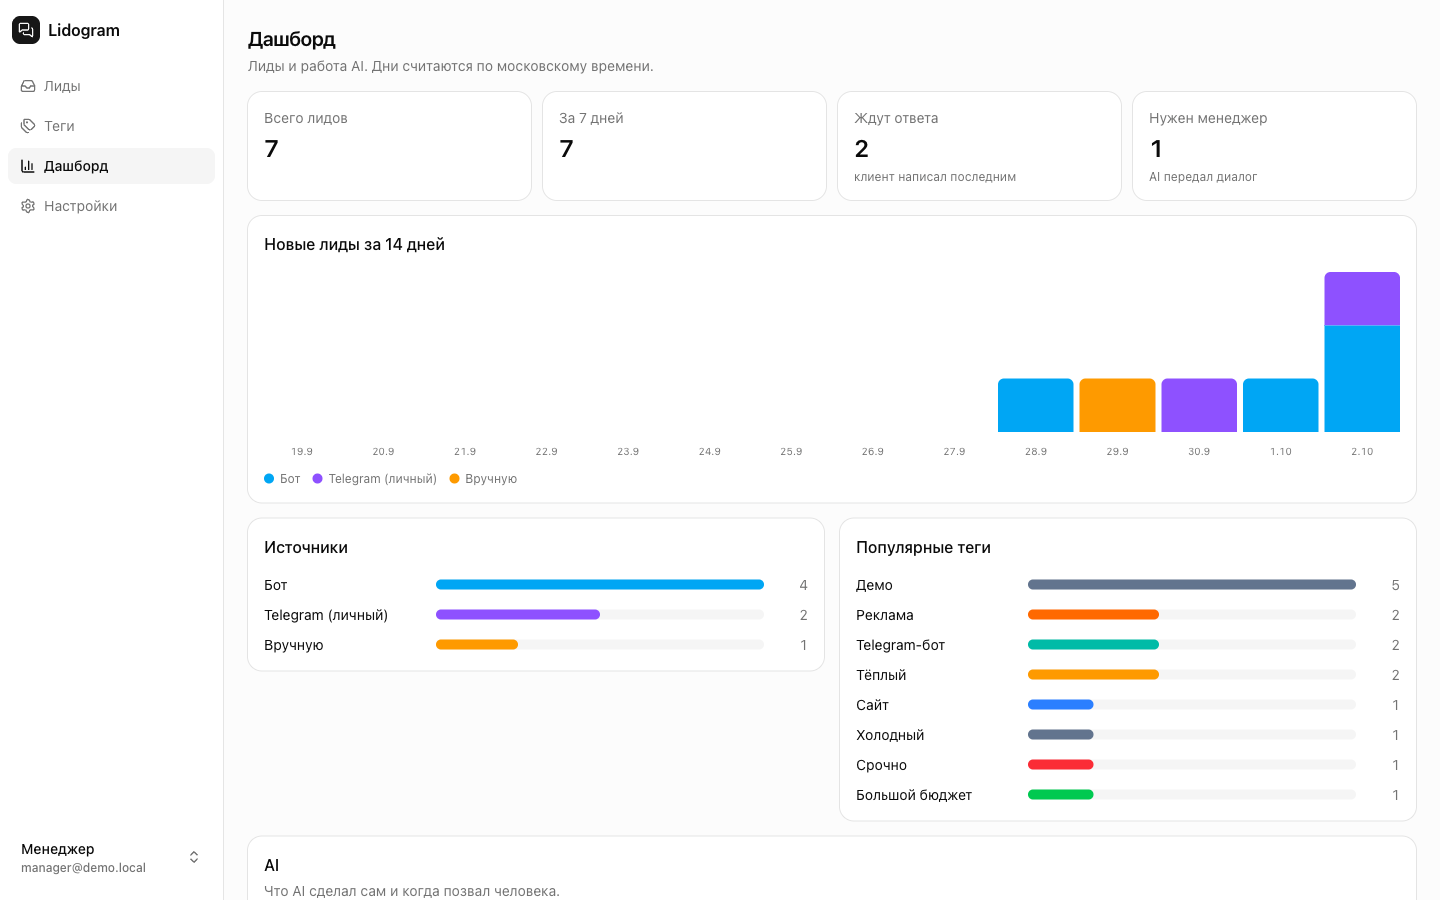
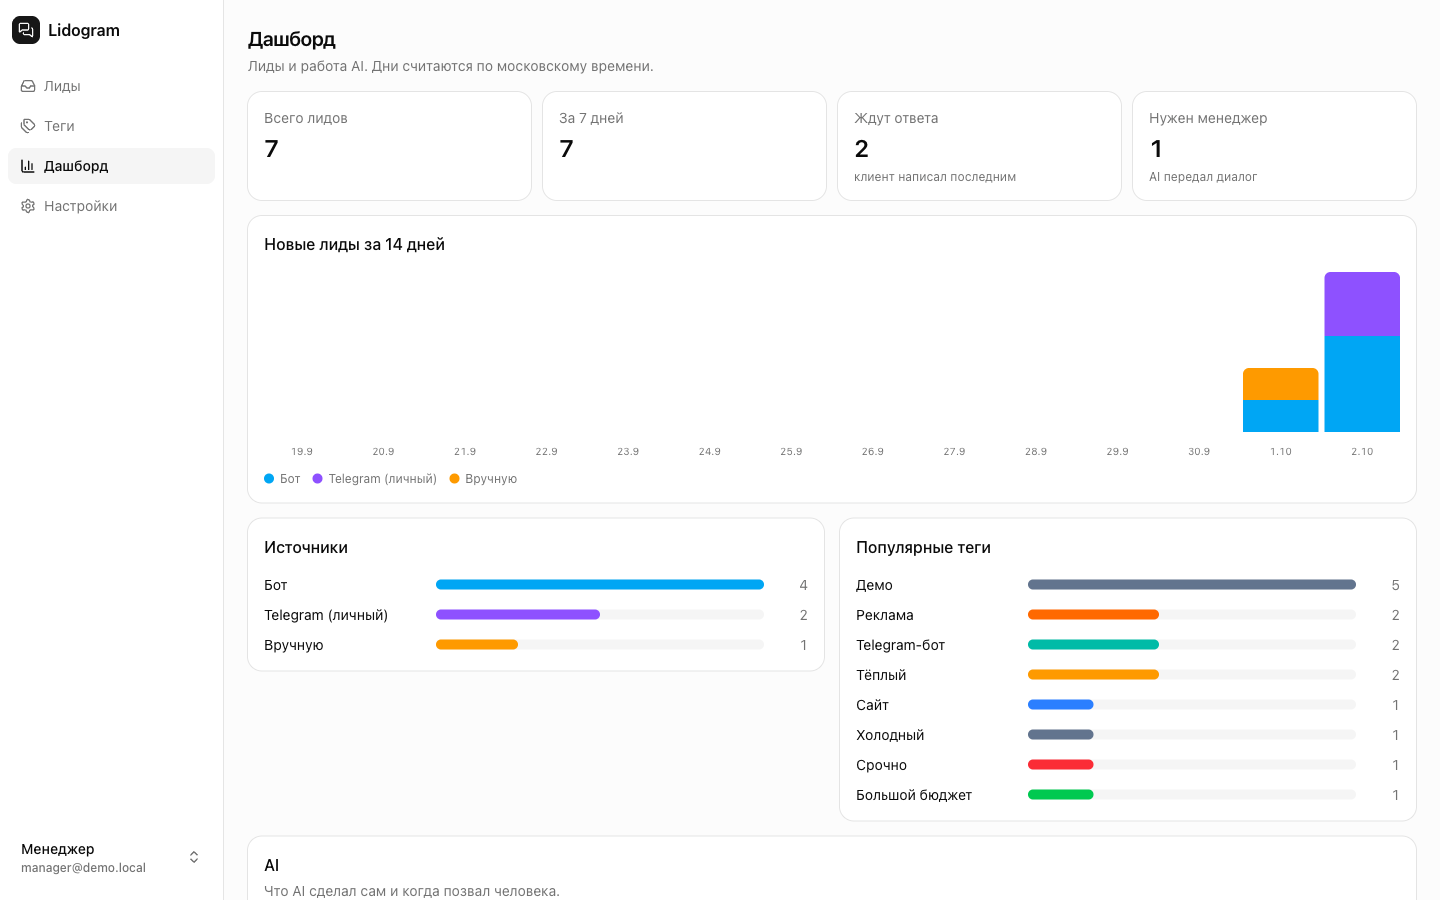
docs: date the demo leads within the last day and refresh screenshots
The demo leads were seeded 5–100 h back, older than the project itself.
They now sit 12.5–23.5 h before seeding (the same shift was applied to the
production demo data), and the README screenshots are retaken.

Changed region(s): [[0.6875, 0.4044, 0.9375, 0.4978], [0.9062, 0.3422, 0.9688, 0.3733]]

diff --git a/prisma/seed-data.ts b/prisma/seed-data.ts
@@ -72,6 +72,7 @@ export type DemoLead = {
   aiMode: "autopilot" | "copilot" | "off";
   needsHuman?: boolean;
   handoffReason?: string;
+  /** Age at seeding time: the demo leads sit 12–24 h back, like the previous day of real traffic. */
   hoursAgo: number;
   tags: Array<{ name: string; origin: "manual" | "ai"; confidence?: number }>;
   qualification: {
@@ -96,7 +97,7 @@ export const DEMO_LEADS: DemoLead[] = [
     request: "Нужен лендинг для студии йоги, хотим запустить рекламу к ноябрю. Бюджет около 80 тысяч.",
     source: "bot",
     aiMode: "autopilot",
-    hoursAgo: 30,
+    hoursAgo: 15,
     tags: [
       { name: "Лендинг", origin: "ai", confidence: 0.93 },
       { name: "Реклама", origin: "ai", confidence: 0.81 },
@@ -144,7 +145,7 @@ export const DEMO_LEADS: DemoLead[] = [
     aiMode: "copilot",
     needsHuman: true,
     handoffReason: "trigger",
-    hoursAgo: 5,
+    hoursAgo: 12.5,
     tags: [
       { name: "Сайт", origin: "ai", confidence: 0.95 },
       { name: "Горячий", origin: "ai", confidence: 0.88 },
@@ -191,7 +192,7 @@ export const DEMO_LEADS: DemoLead[] = [
     request: "Добрый день! Вы ведёте соцсети для кофеен?",
     source: "telegram_account",
     aiMode: "copilot",
-    hoursAgo: 52,
+    hoursAgo: 18,
     tags: [
       { name: "SMM", origin: "ai", confidence: 0.91 },
       { name: "Тёплый", origin: "ai", confidence: 0.74 },
@@ -230,7 +231,7 @@ export const DEMO_LEADS: DemoLead[] = [
     request: "Позвонил по рекомендации. Нужен Telegram-бот для записи клиентов в барбершоп.",
     source: "manual",
     aiMode: "off",
-    hoursAgo: 75,
+    hoursAgo: 21,
     tags: [
       { name: "Telegram-бот", origin: "manual" },
       { name: "Срочно", origin: "manual" },
@@ -255,7 +256,7 @@ export const DEMO_LEADS: DemoLead[] = [
     request: "Просто узнаю цены на логотип.",
     source: "bot",
     aiMode: "autopilot",
-    hoursAgo: 100,
+    hoursAgo: 23.5,
     tags: [
       { name: "Дизайн", origin: "ai", confidence: 0.89 },
       { name: "Холодный", origin: "ai", confidence: 0.72 },

diff --git a/docs/process-log.md b/docs/process-log.md
@@ -677,6 +677,15 @@ Low.
 - **Коммиты по темам, а не одним куском:** по истории видно, в каком порядке шла работа — это
   часть оценки.
 
+**Дальше в тот же вечер.**
+> поменяй даты создания лидов (там 3 дня и тп а мы сделали это только вчера, сделай промежутки с 24 часов до 12 часов, и сделай новые скрины на гит
+
+- **Демо-лиды на проде.** Они были «старше» проекта: 10–106 часов назад. Теперь каждый лид вместе с
+  сообщениями и тегами сдвинут одной транзакцией на 12,5–23,5 часа назад; порядок событий
+  сохранился, настоящие лиды не тронуты.
+- **Сид.** Те же отступы записаны в `prisma/seed-data.ts`.
+- **Скриншоты.** Пересняты, в репозитории обновлены.
+
 ---
 
 ## Шаг 16. …
